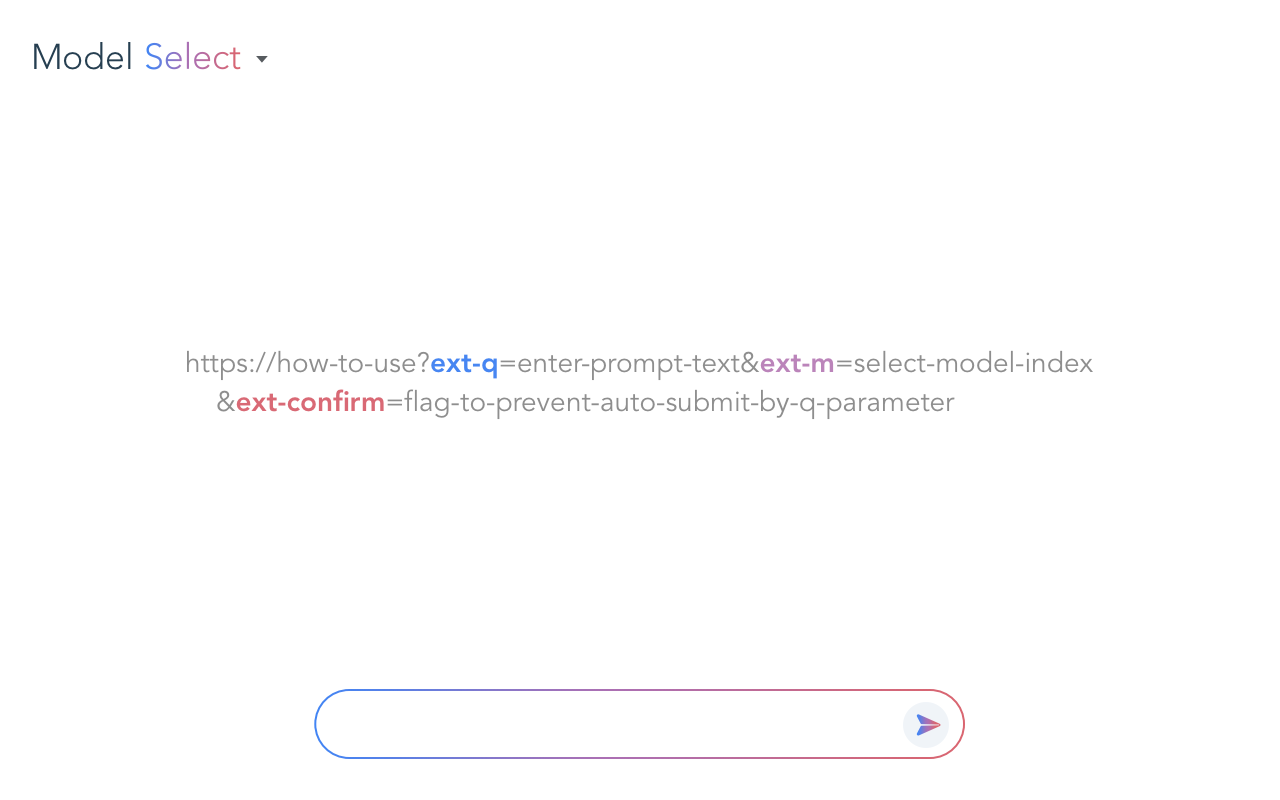
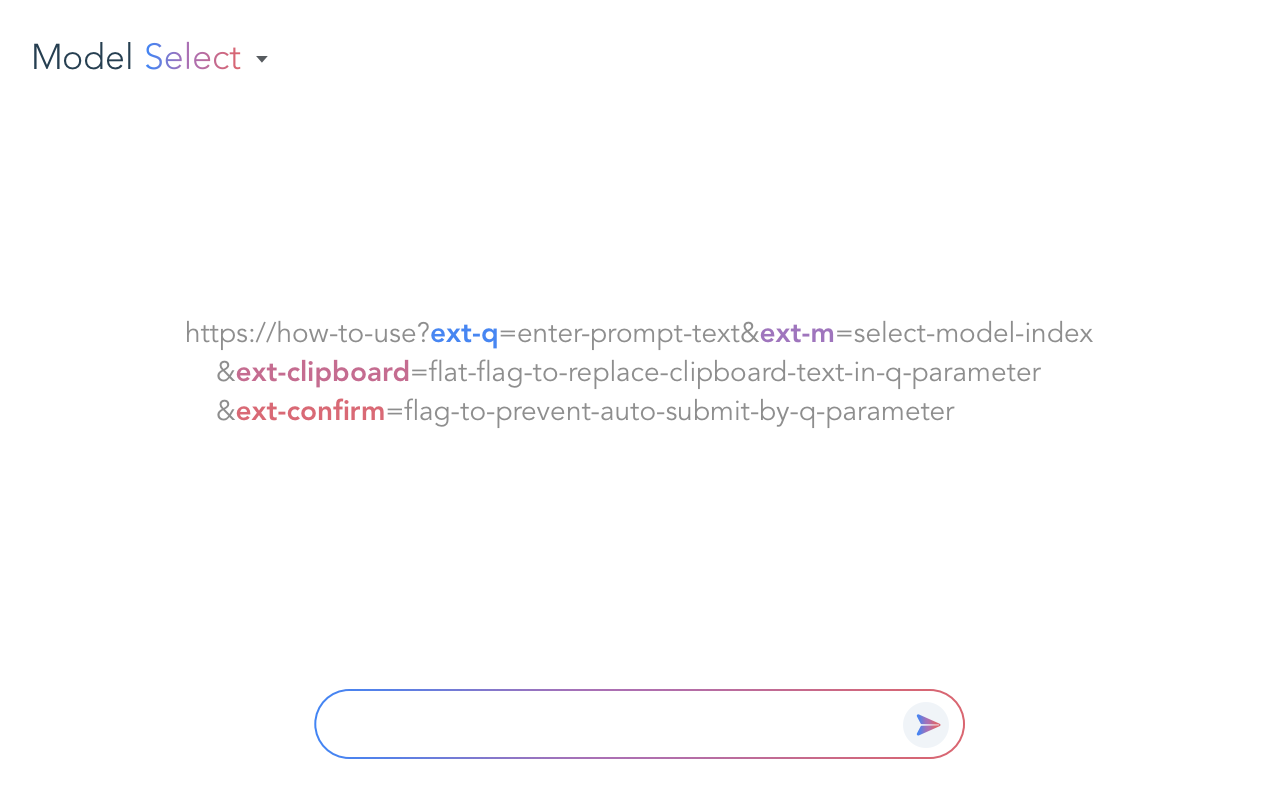
クリップボードのテキストをプロンプトに挿入するオプションを追加。

Changed region(s): [[0.1562, 0.4062, 0.8438, 0.5312]]

diff --git a/extension/js/content.js b/extension/js/content.js
@@ -216,16 +216,22 @@ class QueryParameter {
     });
   }
 
-  async getPrompt() {
+  async waitForResponse() {
     while (this.response === null) {
       await new Promise(resolve => setTimeout(resolve, 100));
     }
     if (this.response instanceof Error) {
       throw this.response;
     }
-    let promptText = this.response.prompt;
+    return this.response;
+  }
+
+  async getPrompt() {
+    const response = await this.waitForResponse();
+    const clipboard = await this.#IsClipboard();
     const keyword = "{{clipboard}}";
-    if (promptText && promptText.includes(keyword)) {
+    let promptText = response.prompt;
+    if (clipboard && promptText && promptText.includes(keyword)) {
       let clipboardText;
       try {
         clipboardText = await navigator.clipboard.readText() || "";
@@ -238,13 +244,8 @@ class QueryParameter {
   }
 
   async getModelIndex() {
-    while (this.response === null) {
-      await new Promise(resolve => setTimeout(resolve, 100));
-    }
-    if (this.response instanceof Error) {
-      throw this.response;
-    }
-    const value = this.response.model;
+    const response = await this.waitForResponse();
+    const value = response.model;
     if (value) {
       return parseInt(value, 10);
     }
@@ -252,13 +253,17 @@ class QueryParameter {
   }
 
   async IsConfirm() {
-    while (this.response === null) {
-      await new Promise(resolve => setTimeout(resolve, 100));
+    const response = await this.waitForResponse();
+    const value = response.confirm;
+    if (value === 'true' || value === '1') {
+      return true;
     }
-    if (this.response instanceof Error) {
-      throw this.response;
-    }
-    const value = this.response.confirm;
+    return false;
+  }
+
+  async #IsClipboard() {
+    const response = await this.waitForResponse();
+    const value = response.clipboard;
     if (value === 'true' || value === '1') {
       return true;
     }

diff --git a/extension/js/background.js b/extension/js/background.js
@@ -1,6 +1,7 @@
 class BackgroundHandler {
   constructor() {
     this.pendingParameters = null;
+    this.params = ['ext-q', 'ext-m', 'ext-confirm', 'ext-clipboard'];
   }
   
   init() {
@@ -9,9 +10,8 @@ class BackgroundHandler {
   }
   
   #getUrlFilters() {
-    const params = ['ext-q', 'ext-m', 'ext-confirm'];
     const filters = [];
-    params.forEach(param => {
+    this.params.forEach(param => {
       filters.push(`*://gemini.google.com/*?${param}=*`);
       filters.push(`*://gemini.google.com/*&${param}=*`);
     });
@@ -32,11 +32,12 @@ class BackgroundHandler {
   
   #handleWebRequest(details) {
     const url = new URL(details.url);
-    if (url.searchParams.has('ext-q') || url.searchParams.has('ext-m') || url.searchParams.has('ext-confirm')) {
+    if (this.params.some(param => url.searchParams.has(param))) {
       this.pendingParameters = {
         prompt: url.searchParams.get('ext-q'),
         model: url.searchParams.get('ext-m'),
-        confirm: url.searchParams.get('ext-confirm')
+        confirm: url.searchParams.get('ext-confirm'),
+        clipboard: url.searchParams.get('ext-clipboard')
       };
     }
   }

diff --git a/extension/html/popup.html b/extension/html/popup.html
@@ -44,10 +44,14 @@
             font-weight: bold;
         }
         .manual-url .param-m {
-            color: #BB84BA;
+            color: #9F75BD;
             font-weight: bold;
         }
         .manual-url .param-confirm {
+            color: #C56C90;
+            font-weight: bold;
+        }
+        .manual-url .param-clipboard {
             color: #D96975;
             font-weight: bold;
         }
@@ -61,6 +65,7 @@
         <strong localize>__MSG_popupManuelHeader__</strong><br>
         <a id="promptLink" href="https://gemini.google.com/app" target="_blank">
             https://how-to-use?<span class="param-q">ext-q</span>=enter-prompt-text&<span class="param-m">ext-m</span>=select-model-index<br>
+            &<span class="param-clipboard">ext-clipboard</span>=flag-to-replace-clipboard-text-in-q-parameter<br>
             &<span class="param-confirm">ext-confirm</span>=flag-to-prevent-auto-submit-by-q-parameter
         </a><br><br>
         <span localize>__MSG_popupManuelCopy__</span>

diff --git a/README.md b/README.md
@@ -6,9 +6,9 @@
 
 ## 機能
 
-* URLのパラメータからプロンプトを自動実行（パラメータはサーバーに送信されずセキュアに処理されます）
-  * クリップボードのテキストをプロンプトに挿入
-  * オプションでプロンプトで自動送信を無効化することも可能
+* URLのパラメータからプロンプトを自動実行（ver1.0.0以降、パラメータはサーバーに送信されず、ブラウザー内でセキュアに処理されます）
+  * クリップボードのテキストをプロンプトに挿入（オプション）
+  * プロンプトの自動送信を無効化（オプション）
 * URLのパラメータからモデルの選択
 * テキストを選択していない状態で `Ctrl + C` / `Cmd + C` キーを押すことで最後の回答をコピー
 
@@ -40,6 +40,7 @@
 https://how-to-use
     ?ext-q=enter-prompt-text
     &ext-m=select-model-index
+    &ext-clipboard=flag-to-replace-clipboard-text-in-q-parameter
     &ext-confirm=flag-to-prevent-auto-submit-by-q-parameter
 
 Ctrl+C / Cmd+C: copy the last answer.
@@ -47,8 +48,9 @@ Ctrl+C / Cmd+C: copy the last answer.
 
 | パラメータ | 説明 | 値 |
 | --- | --- | --- |
-| `ext-q` | 実行するプロンプト文字列 | URLエンコードされたテキスト</br>`{{clipboard}}`キーワードでクリップボードのテキストを挿入 |
+| `ext-q` | 実行するプロンプト文字列 | URLエンコードされたテキスト（`{{clipboard}}`キーワードでクリップボードのテキストを挿入） |
 | `ext-m` | 選択するモデルのインデックス | 0 から始まる整数（UI上での表示順） |
+| `ext-clipboard` | `ext-q`の中で`{{clipboard}}`キーワードをクリップボードのテキストと置き換えます | `true/false` または `0/1` |
 | `ext-confirm` | `ext-q`パラメータによる自動送信の抑制 | `true/false` または `0/1` |
 
 ### サンプル
@@ -63,7 +65,7 @@ Ctrl+C / Cmd+C: copy the last answer.
 
 #### よく使うプロンプトのテンプレートをブックマーク
 
-* [クリップボードのテキストを英訳する](https://gemini.google.com/app?ext-q=%E5%85%A5%E5%8A%9B%E3%81%95%E3%82%8C%E3%81%9F%E3%83%86%E3%82%AD%E3%82%B9%E3%83%88%E3%82%92%E8%8B%B1%E8%AA%9E%E3%81%AB%E7%BF%BB%E8%A8%B3%E3%81%97%E3%81%A6%E3%81%8F%E3%81%A0%E3%81%95%E3%81%84%E3%80%82%0D%0A%0D%0A%0D%0A%2A%2AInput%3A%2A%2A%0D%0A%7B%7Bclipboard%7D%7D&ext-confirm=1)
+* [クリップボードのテキストを英訳する](https://gemini.google.com/app?ext-q=%E5%85%A5%E5%8A%9B%E3%81%95%E3%82%8C%E3%81%9F%E3%83%86%E3%82%AD%E3%82%B9%E3%83%88%E3%82%92%E8%8B%B1%E8%AA%9E%E3%81%AB%E7%BF%BB%E8%A8%B3%E3%81%97%E3%81%A6%E3%81%8F%E3%81%A0%E3%81%95%E3%81%84%E3%80%82%0D%0A%0D%0A%0D%0A%2A%2AInput%3A%2A%2A%0D%0A%7B%7Bclipboard%7D%7D&ext-clipboard=1&ext-confirm=1)
 
 ### 帰属
 
